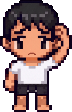
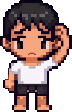
asset(match): 아쉬워하는 머피 리터치본 적용 - 양팔 살 튀어나온 것 정리 (sw v488)

diff --git a/index.html b/index.html
@@ -5756,7 +5756,7 @@ function renderMatch() {
           <!-- ★**파일 자체가 72x112** 다(예전 144x224 에서 줄임, 대표 8-11).
                파일을 크게 두고 CSS 로 줄이면 브라우저가 도트를 절반 버려서 오히려 뭉개진다.
                1 파일픽셀 = 1 화면픽셀이라 이 크기가 제일 선명하다. -->
-          <img src="char/ui/murpy_sad.png?v=2" alt="" style="width:72px;height:auto;display:block;image-rendering:pixelated">
+          <img src="char/ui/murpy_sad.png?v=3" alt="" style="width:72px;height:auto;display:block;image-rendering:pixelated">
         </div>
         <div style="font-size:14px;color:rgba(255,255,255,0.55);font-weight:600;margin-bottom:6px">${(window._matchPoolLeft || 0) > 0 ? '오늘 추천을 다 봤어요' : '오늘 추천할 분을 다 봤어요'}</div>
         <div style="font-size:12px;color:rgba(255,255,255,0.32);line-height:1.6;margin-bottom:20px">${(window._matchPoolLeft || 0) > 0

diff --git a/sw.js b/sw.js
@@ -1,7 +1,7 @@
 // 배포마다 이 버전을 올려야 자동 새버전 적용(새로고침)이 동작함
-const CACHE_NAME = 'murpy-v487';
-const STATIC_CACHE = 'murpy-static-v487';
-const CDN_CACHE = 'murpy-cdn-v487';
+const CACHE_NAME = 'murpy-v488';
+const STATIC_CACHE = 'murpy-static-v488';
+const CDN_CACHE = 'murpy-cdn-v488';
 // 이미지 캐시는 버전 안 붙임 → 코드/HTML 배포해도 유지(URL이 곧 버전)
 const IMG_CACHE = 'murpy-img';
 
